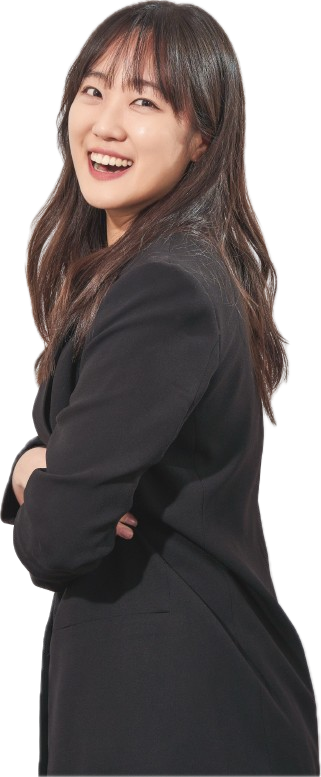
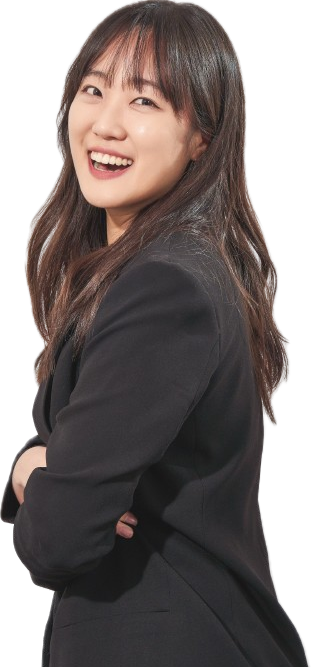
added photo

diff --git a/index.html b/index.html
@@ -49,7 +49,7 @@
         <div class="collapse navbar-collapse" id="navbarResponsive">
             <ul class="navbar-nav text-uppercase ms-auto py-4 py-lg-0">
                 <li class="nav-item"><a class="nav-link" href="#skill">Tech Stack</a></li>
-                <li class="nav-item"><a class="nav-link" href="#certi">Certificates</a></li>
+                <!-- <li class="nav-item"><a class="nav-link" href="#certi">Certificates</a></li> -->
                 <li class="nav-item"><a class="nav-link" href="#portfolio">Portfolio</a></li>
                 <li class="nav-item"><a class="nav-link" href="#about">Experiences</a></li>
                 <li class="nav-item"><a class="nav-link" href="#team">Contact</a></li>
@@ -63,14 +63,21 @@
         <div class="text-container">
             <div class="container" style="margin-bottom: 30px; margin-top: 100px;">
                 <div class="masthead-subheading">Junior Fullstack Web Developer</div>
-                <div class="masthead-heading text-uppercase text"></div>
-                <p> working as a web developer at a whiskey startup in Germany. <br>
-                    I have a passion for perfume🌱 and birds🕊, I also love traveling 🏝💕 <br><br></p>
-                <div data-aos="fade-up" data-aos-duration="1500" data-aos-easing="ease-in-out">
-                    <a class="btn btn-primary btn-xl text-uppercase"
-                        href="https://drive.google.com/file/d/1OZeNOmF9YNE6SDjA1XxOTmgnrzSqcyPL/view?usp=sharing"
-                        target="_blank">Check my CV</a>
+                
+                <div class="text-container">
+                    <div class="container" style="margin-bottom: 30px; margin-top: 100px; display: flex; align-items:flex-start; justify-content: center;">
+                        <div class="masthead-heading text-uppercase text" style="text-align:center;">
+                        </div>
+                        <img src="assets/img/slide.png" alt="Profile Image" class="profile-image" style="display:none; height:100px;">
+                    </div>
                 </div>
+        
+                <p> worked as a web developer at a whiskey startup in Germany. <br>
+                    I have a passion for perfume🌱 and birds🕊, I also love traveling 🏝💕 <br><br></p>
+                    
+                    <div data-aos="fade-up" data-aos-duration="1500" data-aos-easing="ease-in-out" style="text-align: center;">
+                        <a class="btn btn-primary btn-xl text-uppercase" href="https://drive.google.com/file/d/1OZeNOmF9YNE6SDjA1XxOTmgnrzSqcyPL/view?usp=sharing" target="_blank">Check my CV</a>
+                    </div>
             </div>
 
         </div>
@@ -167,7 +174,6 @@
 
         </section>
     </header>
-
     <div style="background-color: #212529; position:relative; height:100px; display:flex;align-items: center;">
         <div class="btn-motion5">
             <span></span>
@@ -175,7 +181,7 @@
     </div>
 
     <!-- Certi -->
-    <header class="masthead">
+    <!-- <header class="masthead">
         <section class="page-section" id="certi" style="background-color: #212529;">
 
             <div class="container">
@@ -185,7 +191,6 @@
                     </div>
 
                     <div class="row text-center">
-                        <!-- Backend -->
                         <div class="col-md-4 section-box backend-box">
                             <span class="fa-stack fa-4x">
                                 <i class="fas fa-circle fa-stack-2x text-primary"></i>
@@ -194,7 +199,6 @@
                             <h4 class="my-3" style="color: beige;">Backend</h4>
                         </div>
 
-                        <!-- Frontend -->
                         <div class="col-md-4 section-box frontend-box">
                             <div data-aos="fade-down" data-aos-duration="1000">
                                 <span class="fa-stack fa-4x">
@@ -210,13 +214,9 @@
             </div>
 
         </section>
-    </header>
+    </header> -->
 
-    <div style="background-color: #212529; position:relative; height:100px; display:flex;align-items: center;">
-        <div class="btn-motion5">
-            <span></span>
-        </div>
-    </div>
+   
 
     <!-- Portfolio Grid-->
     <header class="masthead">

diff --git a/js/scripts.js b/js/scripts.js
@@ -68,28 +68,38 @@ window.addEventListener("DOMContentLoaded", (event) => {
 
     // Typing effect
     const content = "MINSUN KIM";
-    const text = document.querySelector(".text");
+    const text = document.querySelector(".masthead-heading");
+    const profileImage = document.querySelector(".profile-image");
     let i = 0;
     let isDeleting = false;
     let intervalId;
+    const imageVisibleTime = 5000;
     
     function typing() {
         if (isDeleting) {
+            profileImage.style.display = "none";
             text.textContent = text.textContent.slice(0, -1);
             if (text.textContent === "") {
                 isDeleting = false;
                 i = 0;
             }
         } else {
-            text.textContent += content[i++];
-            if (i >= content.length) {
+            if (i < content.length) {
+                text.textContent += content[i++];
+            }
+            if (i === content.length) {
                 isDeleting = true;
+                profileImage.style.display = "inline";
+                setTimeout(function() {
+                    profileImage.style.display = "none";
+                }, imageVisibleTime);
             }
         }
     }
     
-    intervalId = setInterval(typing, 500);
-
+    intervalId = setInterval(typing, 1500); 
+    
+      
     //비디오 재생 관련
     const videoThumbnail = document.getElementById("video-thumbnail");
     videoThumbnail.addEventListener("click", playVideo);
